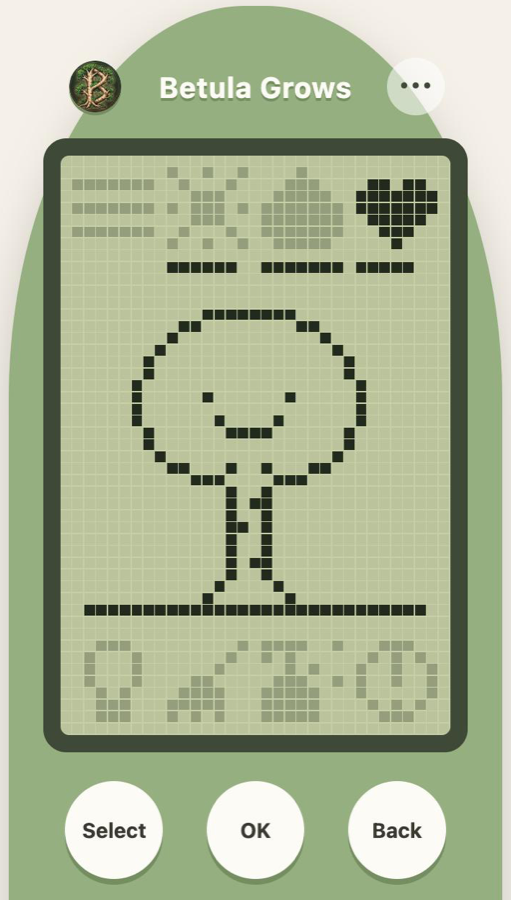
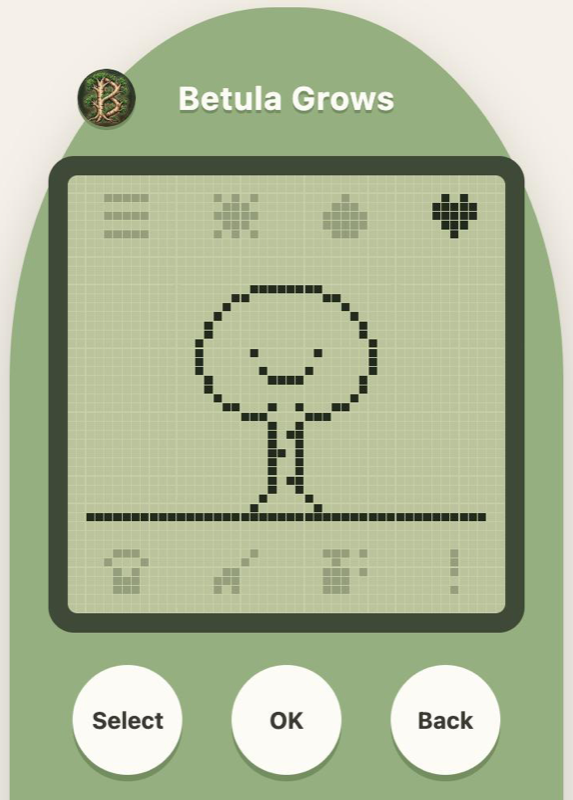
Update guide, README and screenshot for the new menu

diff --git a/CLAUDE.md b/CLAUDE.md
@@ -62,7 +62,7 @@ A tiny virtual-pet game in the spirit of the original Tamagotchi. You look after
 - The Attention icon is not a button: it lights up when Betula needs something.
 
 ### Icons
-- Menu: opens over Betula. Shows stats (age, current stage, lives lived, gifts collected), the gift collection, a sound on/off option and the reset option (with confirmation).
+- Menu: opens inside the LCD screen in place of Betula, drawn in pixel art, as pages browsed with left and right arrows (Select also turns the page, Back closes the menu). The first page shows the sun, water and company bars. The last page is always reset, with an "ERASE ALL?" question where NO is chosen first. The pages for stats (age, current stage, lives lived, gifts collected), the gift collection and sound on/off go between them.
 - Sun: refills the sun need. Does nothing at night, because Betula is sleeping.
 - Water: refills the water need.
 - Heart: opens the left-or-right mini-game.
@@ -105,7 +105,7 @@ A tiny virtual-pet game in the spirit of the original Tamagotchi. You look after
 
 ### Session plan
 1. New screen layout: 24-hour life back (keeping gifts), 8 pixel icons, the three buttons, and Sun, Water and Heart working with the existing actions.
-2. Menu (stats, gifts, sound on/off, reset), Attention icon and the sound system.
+2. Menu pages for stats, gifts and sound on/off (the needs and reset pages already exist), Attention icon and the sound system.
 3. Day and night: Lamp, sleeping, slower needs at night, ?hour=N.
 4. Fallen leaves with the Broom, and pests with the Spray.
 5. Left-or-right mini-game.

diff --git a/README.md b/README.md
@@ -14,7 +14,8 @@ a small birch tree, from seed to birch in one cozy 24-hour life.
   the game is closed.
 - **Three needs.** Sun, water and company slowly run low over about four hours.
   Tap the icons on the screen, or use Select and OK, to look after her.
-  When a need runs low Betula looks sad, but she never dies.
+  Open the menu to see how she is doing. When a need runs low Betula looks sad,
+  but she never dies.
 - **Gifts.** At the end of each life Betula leaves you a gift and starts again
   as a seed. The better you cared for her, the better the chance of a rare one.
   Gifts stay in your collection forever.
@@ -23,7 +24,7 @@ Your game is saved in your browser, so each phone or computer has its own Betula
 
 ## Coming soon in version 1.1
 
-- A menu with stats, your gift collection, sound on/off and reset
+- More menu pages: stats, your gift collection and sound on/off
 - An attention icon that lights up when Betula needs something
 - 8-bit sounds
 - Day and night: a lamp, and Betula sleeping through the night
